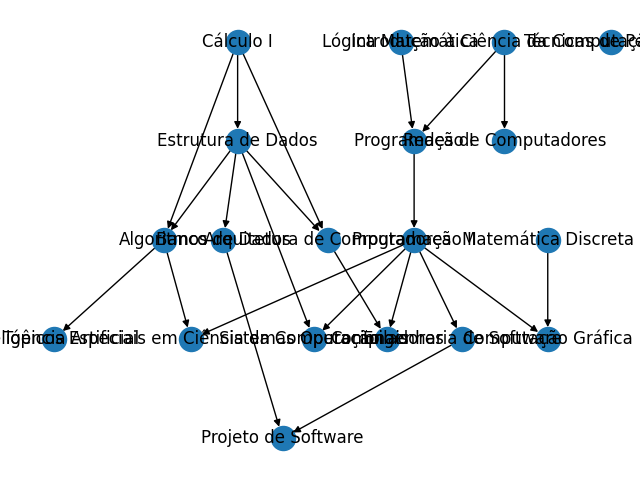
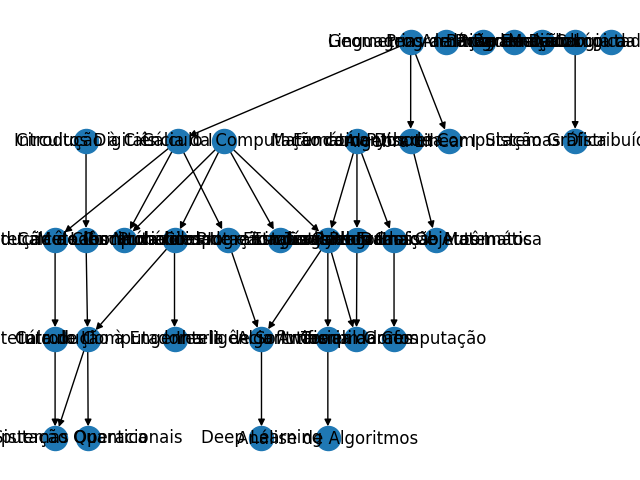
update code

diff --git a/main.py b/main.py
@@ -5,24 +5,41 @@ import matplotlib.pyplot as plt
 
 # Course data with prerequisites
 courses = {
-    "Cálculo I": None,
-    "Lógica Matemática": None,
-    "Introdução à Ciência da Computação": None,
-    "Programação I": ["Lógica Matemática", "Introdução à Ciência da Computação"],
-    "Estrutura de Dados": ["Cálculo I"],
-    "Algoritmos": ["Cálculo I", "Estrutura de Dados"],
-    "Programação II": ["Programação I"],
-    "Banco de Dados": ["Estrutura de Dados"],
-    "Redes de Computadores": ["Introdução à Ciência da Computação"],
-    "Sistemas Operacionais": ["Programação II", "Estrutura de Dados"],
-    "Arquitetura de Computadores": ["Cálculo I", "Estrutura de Dados"],
-    "Engenharia de Software": ["Programação II"],
-    "Compiladores": ["Programação II", "Arquitetura de Computadores"],
-    "Inteligência Artificial": ["Algoritmos"],
-    "Computação Gráfica": ["Programação II", "Matemática Discreta"],  # Assuming Matemática Discreta is a prerequisite
-    "Projeto de Software": ["Engenharia de Software", "Banco de Dados"],
-    "Tópicos Especiais em Ciência da Computação": ["Algoritmos", "Programação II"],
-    "Técnicas de Pesquisa": None,
+    "Circuitos Digitais": [],
+    "Matemática Discreta": [],
+    "Linguagens de Programação": [],
+    "Introdução à Ciência da Computação com Python I": [],
+    "Geometria Analítica": [],
+    "Cálculo I": ["Geometria Analítica"],
+    "Álgebra Linear I": ["Geometria Analítica"],
+    "Estruturas de Dados": ["Matemática Discreta", "Introdução à Ciência da Computação com Python I"],
+    "Introdução à Ciência da Computação com Python II": ["Introdução à Ciência da Computação com Python I"],
+    "Laboratório de Programação Orientada a Objetos I": ["Introdução à Ciência da Computação com Python I"],
+    "Algoritmos em Grafos": ["Estruturas de Dados"],
+    "Arquitetura de Computadores I": ["Circuitos Digitais"],
+    "Probabilidade e Estatística": ["Cálculo I"],
+    "Cálculo II": ["Cálculo I"],
+    "Programação Funcional": [],
+    "Análise de Algoritmos": ["Algoritmos em Grafos"],
+    "Métodos Numéricos I": ["Introdução à Ciência da Computação com Python I", "Cálculo I"],
+    "Banco de Dados": [],
+    "Arquitetura de Computadores II": ["Introdução à Ciência da Computação com Python II", "Arquitetura de Computadores I"],
+    "Programação Lógica": [],
+    "Redes de Computadores": [],
+    "Introdução à Engenharia de Software": ["Introdução à Ciência da Computação com Python II"],
+    "Sistemas Operacionais": ["Arquitetura de Computadores II"],
+    "Programação Matemática": ["Álgebra Linear I"],
+    "Fundamentos de Computação Gráfica": ["Geometria Analítica"],
+    "Linguagens Formais e Autômatos": ["Matemática Discreta"],
+    "Inteligência Artificial": ["Estruturas de Dados", "Probabilidade e Estatística"],
+    "Sistemas Distribuídos": ["Redes de Computadores"],
+    "Teoria dos Grafos": ["Matemática Discreta"],
+    "Cálculo III": ["Cálculo II"],
+    "Teoria da Computação": ["Linguagens Formais e Autômatos"],
+    "Deep Learning": ["Inteligência Artificial"],
+    "Compiladores": ["Estruturas de Dados", "Teoria dos Grafos"],
+    "Computação Quantica": ["Cálculo III", "Arquitetura de Computadores II"],
+    "Metodologia da Pesquisa": []
 }
 
 # Create a directed graph object
